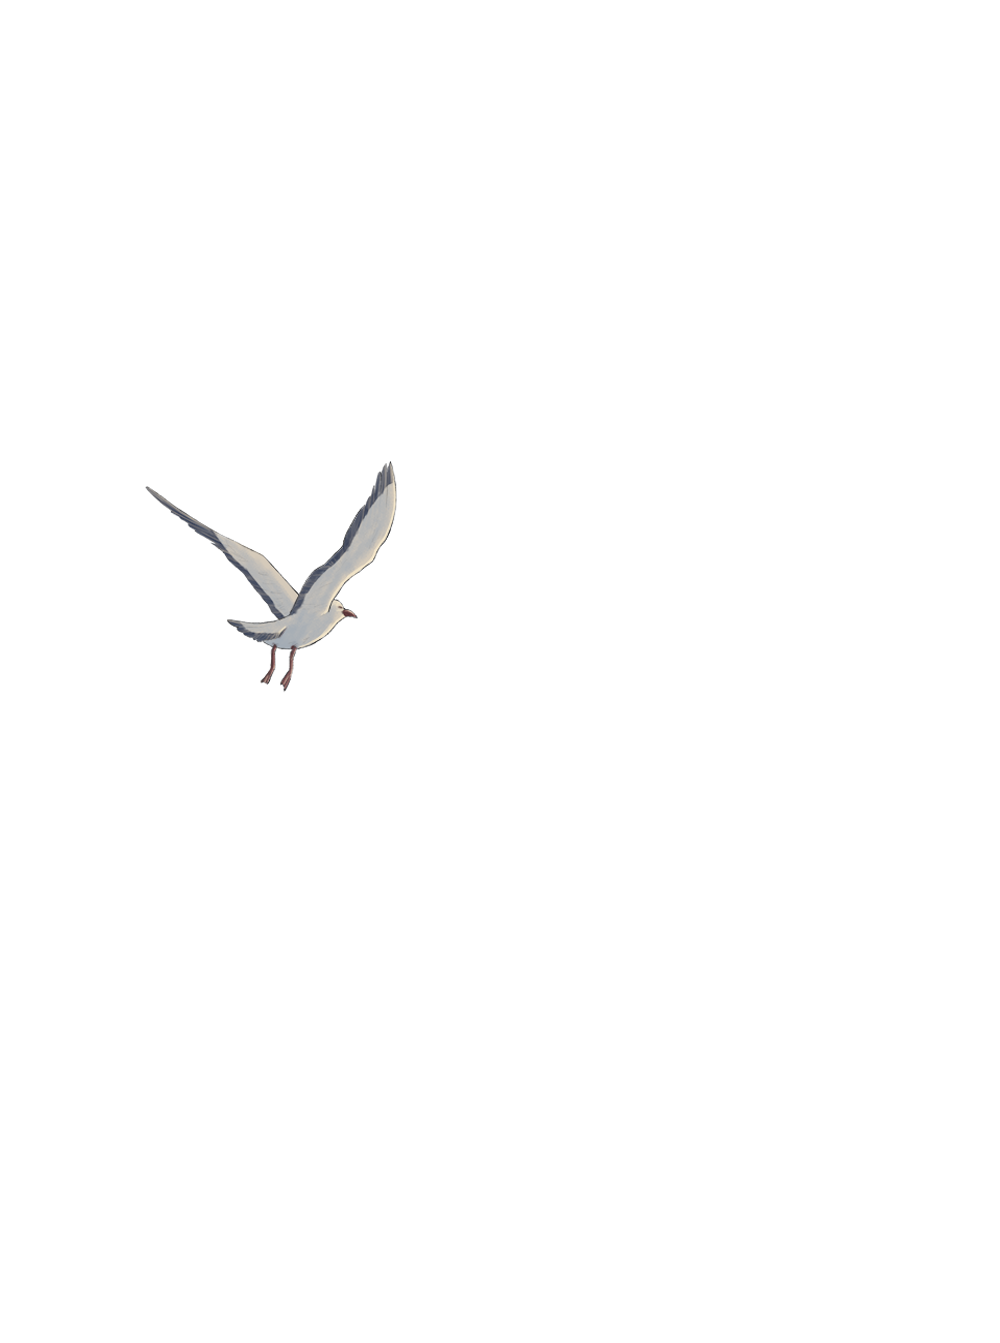
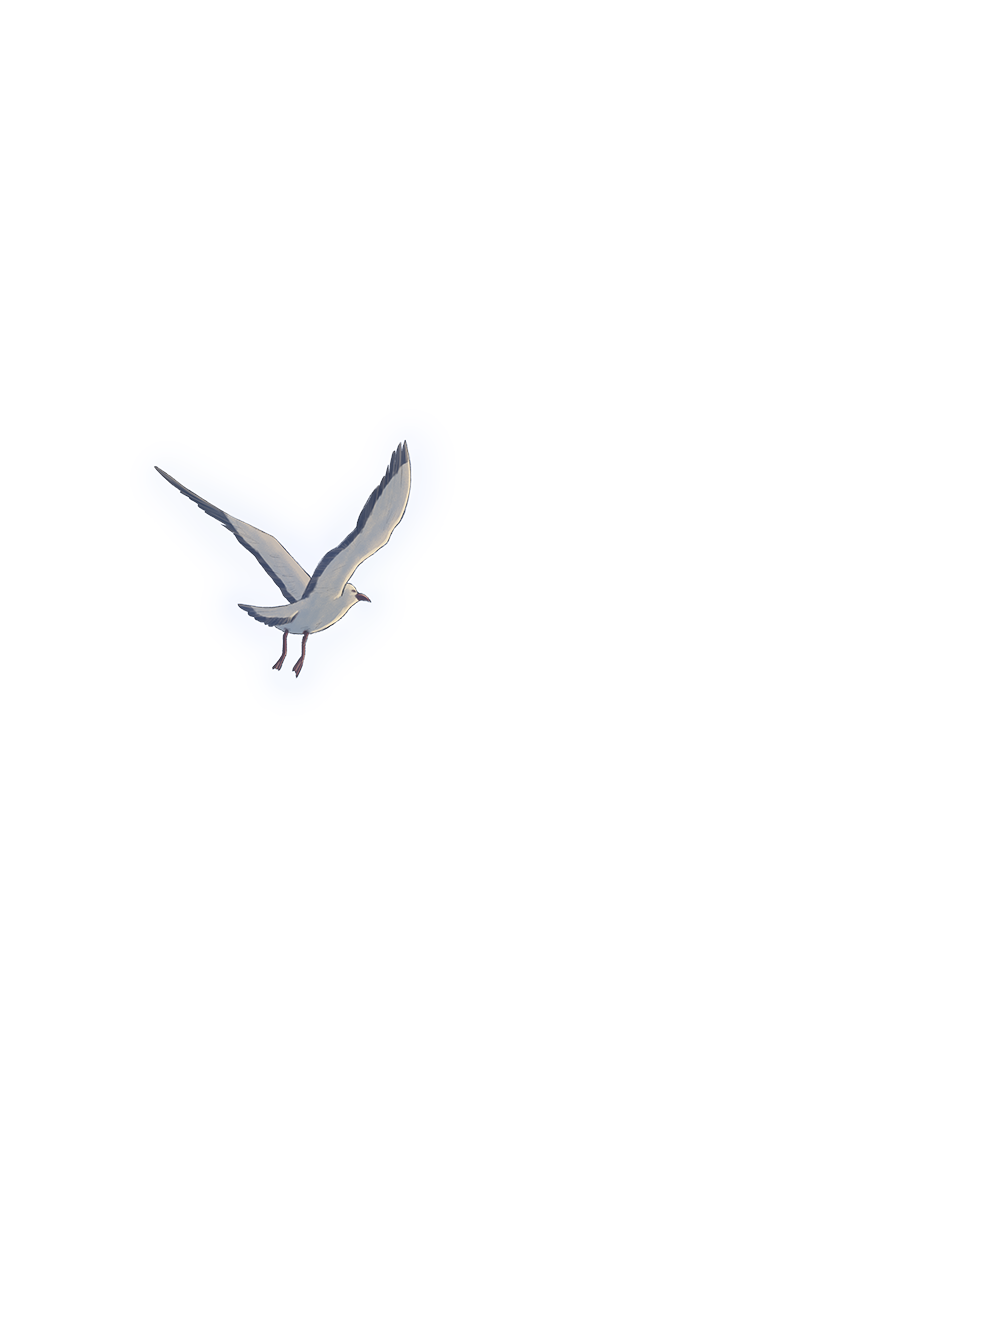
Add glow :sparkles:

Changed region(s): [[0.155, 0.3358, 0.434, 0.519]]

diff --git a/dist/app.ebd38bef.css b/dist/app.ebd38bef.css
@@ -1,2 +1,2 @@
-body,html{margin:0;padding:0;height:100%}*{box-sizing:border-box;user-select:none}body{padding:20px;display:flex;align-items:center;justify-content:center;overflow:hidden}.hidden{visibility:hidden}.loader{font-family:sans-serif;color:#696969;font-size:1em}.canvas{position:absolute;width:90vw;height:124.3vw;max-height:90vh;max-width:64.46016vh;margin:auto;top:0;bottom:0;left:0;right:0;overflow:hidden;cursor:grab}.background{width:114%;height:114%;top:-7%;left:-7%;background-image:url(3_BG_v01.9c18cc53.png)}.background,.seagull-1{position:absolute;background-size:cover;background-repeat:no-repeat;background-position:50%}.seagull-1{width:100%;height:100%;top:0;left:0;background-image:url(2_SeaGull_1_v01.aaac4000.png)}.seagull-2{background-image:url(2_SeaGull_2_v01.02e52c9a.png)}.seagull-2,.seagull-3{position:absolute;width:100%;height:100%;top:0;left:0;background-size:cover;background-repeat:no-repeat;background-position:50%}.seagull-3{background-image:url(2_SeaGull_3_v01.9f02b17b.png)}.seagull-4{background-image:url(2_SeaGull_4_v01.b1d13e96.png)}.seagull-4,.seagull-5{position:absolute;width:100%;height:100%;top:0;left:0;background-size:cover;background-repeat:no-repeat;background-position:50%}.seagull-5{background-image:url(2_SeaGull_5_v01.6585066d.png)}.guy{position:absolute;width:100%;height:100%;top:0;left:0;background-size:cover;background-repeat:no-repeat;background-position:50%;background-image:url(1_Guy_v01.d313ad05.png)}
+body,html{margin:0;padding:0;height:100%}*{box-sizing:border-box;user-select:none}body{padding:20px;display:flex;align-items:center;justify-content:center;overflow:hidden}.hidden{visibility:hidden}.loader{font-family:sans-serif;color:#696969;font-size:1em}.canvas{position:absolute;width:90vw;height:124.3vw;max-height:90vh;max-width:64.46016vh;margin:auto;top:0;bottom:0;left:0;right:0;overflow:hidden;cursor:grab}.background{width:114%;height:114%;top:-7%;left:-7%;background-image:url(3_BG_v01.bc0d505c.png)}.background,.seagull-1{position:absolute;background-size:cover;background-repeat:no-repeat;background-position:50%}.seagull-1{width:100%;height:100%;top:0;left:0;background-image:url(2_SeaGull_1_v01.f86dc852.png)}.seagull-2{background-image:url(2_SeaGull_2_v01.5f5023e9.png)}.seagull-2,.seagull-3{position:absolute;width:100%;height:100%;top:0;left:0;background-size:cover;background-repeat:no-repeat;background-position:50%}.seagull-3{background-image:url(2_SeaGull_3_v01.8139a8d7.png)}.seagull-4{background-image:url(2_SeaGull_4_v01.28e8db2f.png)}.seagull-4,.seagull-5{position:absolute;width:100%;height:100%;top:0;left:0;background-size:cover;background-repeat:no-repeat;background-position:50%}.seagull-5{background-image:url(2_SeaGull_5_v01.8189919f.png)}.guy{position:absolute;width:100%;height:100%;top:0;left:0;background-size:cover;background-repeat:no-repeat;background-position:50%;background-image:url(1_Guy_v01.b575585a.png)}
 /*# sourceMappingURL=app.ebd38bef.css.map */
